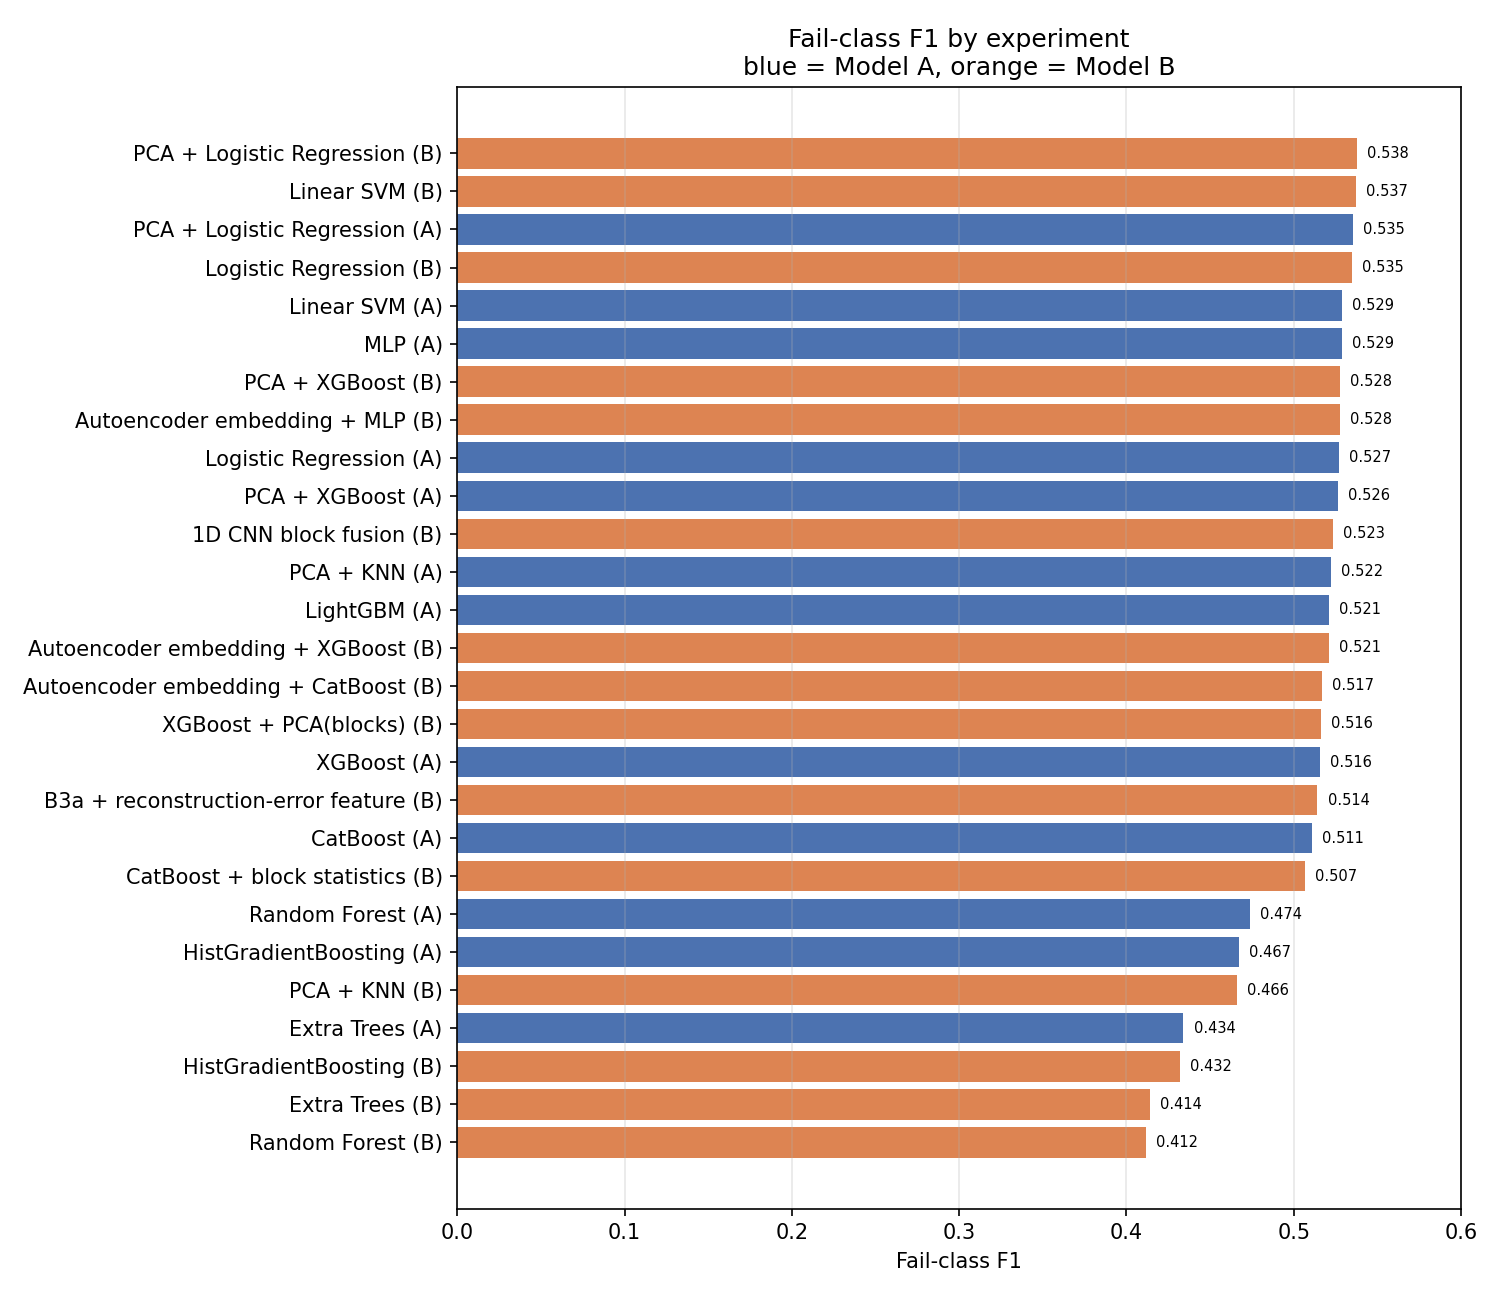
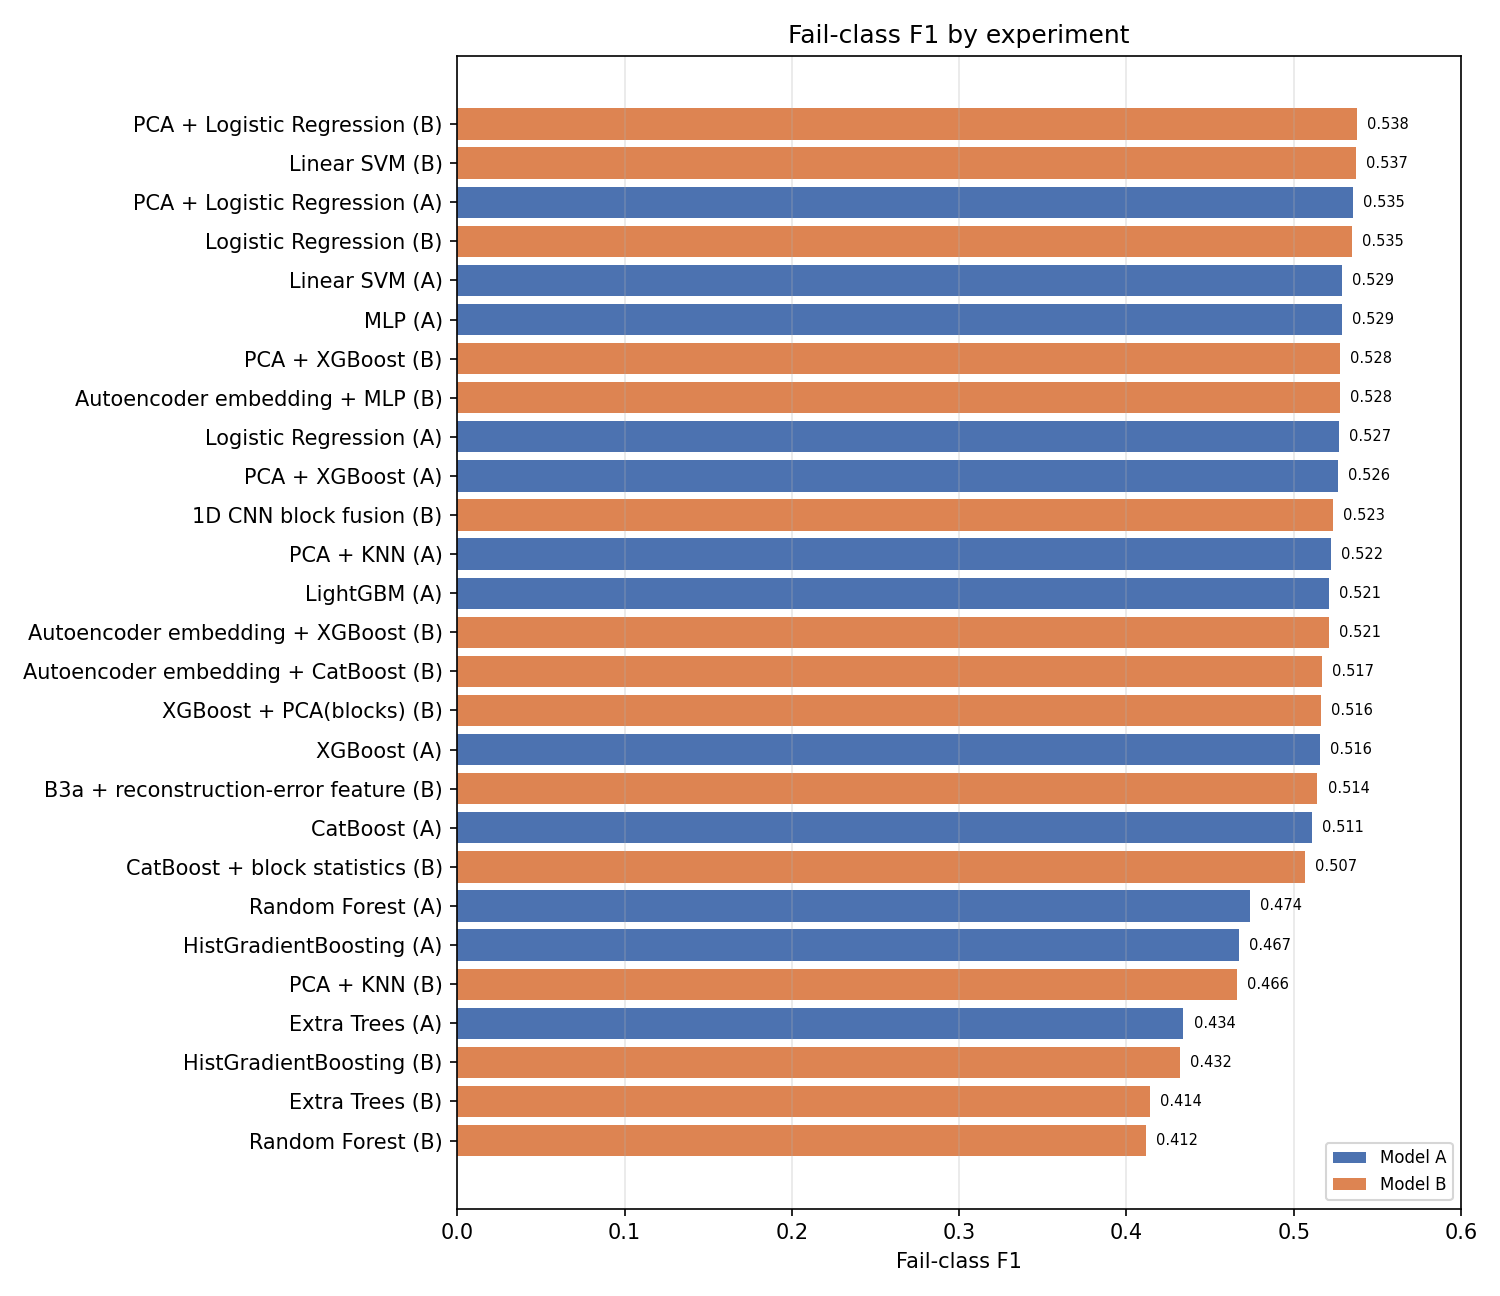
updates

Changed region(s): [[0.0, 0.0, 0.9507, 0.8951], [0.8893, 0.8642, 0.9813, 0.9259]]

diff --git a/plot_team_comparison.py b/plot_team_comparison.py
@@ -58,10 +58,12 @@ def label_for(row):
 
 
 def plot_bar_by_metric(rows, metric, title, filename, xlim=None):
+    MODEL_A_COLOR, MODEL_B_COLOR = "#4C72B0", "#DD8452"
+
     rows_sorted = sorted(rows, key=lambda r: r[metric])
     labels = [label_for(r) for r in rows_sorted]
     values = [r[metric] for r in rows_sorted]
-    colors = ["#4C72B0" if r["stage"] == "A" else "#DD8452" for r in rows_sorted]
+    colors = [MODEL_A_COLOR if r["stage"] == "A" else MODEL_B_COLOR for r in rows_sorted]
 
     fig, ax = plt.subplots(figsize=(10, max(6, 0.32 * len(rows_sorted))))
     bars = ax.barh(labels, values, color=colors)
@@ -73,7 +75,14 @@ def plot_bar_by_metric(rows, metric, title, filename, xlim=None):
     if xlim:
         ax.set_xlim(*xlim)
     ax.set_xlabel(title)
-    ax.set_title(f"{title} by experiment\nblue = Model A, orange = Model B")
+    ax.set_title(f"{title} by experiment")
+
+    from matplotlib.patches import Patch
+    legend_handles = [
+        Patch(facecolor=MODEL_A_COLOR, label="Model A"),
+        Patch(facecolor=MODEL_B_COLOR, label="Model B"),
+    ]
+    ax.legend(handles=legend_handles, loc="lower right", fontsize=8)
     ax.grid(axis="x", alpha=0.3)
     fig.tight_layout()
 
@@ -108,17 +117,31 @@ def plot_ab_delta(rows):
     y = range(len(pairs_data))
     height = 0.38
 
-    f1_colors = ["#2ca02c" if v >= 0 else "#d62728" for v in f1_deltas]
-    roc_colors = ["#98df8a" if v >= 0 else "#ff9896" for v in roc_deltas]
+    F1_UP, F1_DOWN = "#2ca02c", "#d62728"       # F1 delta: dark green / dark red
+    ROC_UP, ROC_DOWN = "#98df8a", "#ff9896"     # ROC-AUC delta: light green / light red
 
-    ax.barh([yi + height / 2 for yi in y], f1_deltas, height=height, color=f1_colors, label="F1 delta (B - A)")
-    ax.barh([yi - height / 2 for yi in y], roc_deltas, height=height, color=roc_colors, label="ROC-AUC delta (B - A)")
+    f1_colors = [F1_UP if v >= 0 else F1_DOWN for v in f1_deltas]
+    roc_colors = [ROC_UP if v >= 0 else ROC_DOWN for v in roc_deltas]
+
+    ax.barh([yi + height / 2 for yi in y], f1_deltas, height=height, color=f1_colors)
+    ax.barh([yi - height / 2 for yi in y], roc_deltas, height=height, color=roc_colors)
     ax.axvline(0, color="black", linewidth=0.8)
     ax.set_yticks(list(y))
     ax.set_yticklabels(labels)
-    ax.set_xlabel("Change from Model A to Model B (positive = improvement)")
-    ax.set_title("Model A -> Model B: F1 and ROC-AUC delta per approach\n(green/light-green = improved, red/light-red = regressed)")
-    ax.legend(loc="lower right", fontsize=8)
+    ax.set_xlabel("Change from Model A to Model B (positive = improvement, negative = regression)")
+    ax.set_title("Model A -> Model B: F1 and ROC-AUC delta per approach")
+
+    # Explicit 4-entry legend -- one swatch per (metric, direction) combination actually
+    # used in the chart, since a plain 2-entry legend (one per metric) can't show that
+    # each metric has a separate "improved" vs "regressed" color.
+    from matplotlib.patches import Patch
+    legend_handles = [
+        Patch(facecolor=F1_UP, label="F1 delta -- improved"),
+        Patch(facecolor=F1_DOWN, label="F1 delta -- regressed"),
+        Patch(facecolor=ROC_UP, label="ROC-AUC delta -- improved"),
+        Patch(facecolor=ROC_DOWN, label="ROC-AUC delta -- regressed"),
+    ]
+    ax.legend(handles=legend_handles, loc="lower right", fontsize=8)
     ax.grid(axis="x", alpha=0.3)
     fig.tight_layout()
 
